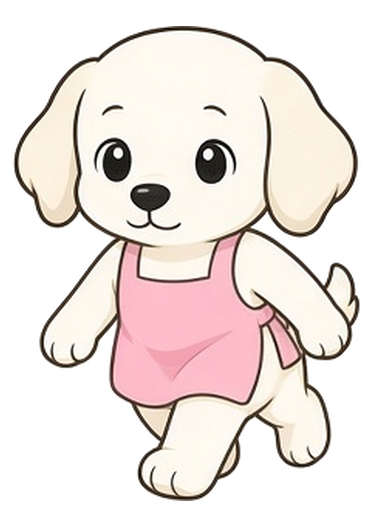
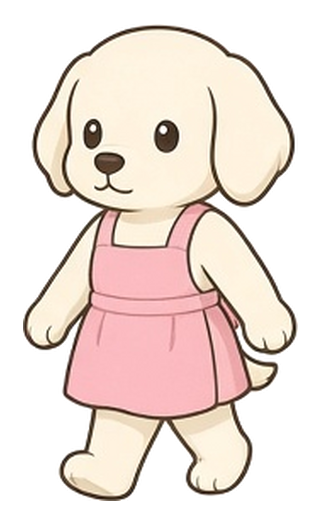
fix: redraw white puppy walk frames with two arms and two legs

diff --git a/src/canvas/walkPixels.test.ts b/src/canvas/walkPixels.test.ts
@@ -5,7 +5,7 @@ import { WALK_ACTORS } from './plaza'
 
 /**
  * Which way the unmirrored sheet faces, read from the pixels.
- * Near-straight frames (white-puppy-back-2) stay neutral.
+ * Near-straight frames (white-puppy-front-2) stay neutral.
  */
 type PixelFacing = 'left' | 'right' | 'neutral'
 
@@ -180,8 +180,8 @@ describe('walk sheet pixels face the authored way', () => {
     const seen = (file: string, side: 'front' | 'back') => pixelFacing(readPng(`public/assets/art25/walk/${file}.png`), side)
     expect(seen('white-puppy-front-1', 'front')).toBe('left')
     expect(seen('white-puppy-front-3', 'front')).toBe('left')
-    expect(seen('white-puppy-back-1', 'back')).toBe('left')
-    expect(seen('white-puppy-back-3', 'back')).toBe('left')
+    expect(seen('white-puppy-back-1', 'back')).toBe('right')
+    expect(seen('white-puppy-back-3', 'back')).toBe('right')
     expect(seen('brown-puppy-back-1', 'back')).toBe('right')
     expect(seen('brown-puppy-back-3', 'back')).toBe('right')
     expect(seen('hamster-back-1', 'back')).toBe('right')

diff --git a/src/canvas/plaza.ts b/src/canvas/plaza.ts
@@ -514,7 +514,7 @@ export const WALK_ACTORS: Record<string, { file: string; width: number; height: 
   rabbit: { file: 'rabbit', width: 284, height: 512, foot: 500, frontFacesRight: false, backFacesRight: true },
   hamster: { file: 'hamster', width: 404, height: 512, foot: 500, frontFacesRight: false, backFacesRight: true },
   sparrow: { file: 'duck', width: 396, height: 512, foot: 500, frontFacesRight: false, backFacesRight: false },
-  'white-puppy': { file: 'white-puppy', width: 374, height: 512, foot: 500, frontFacesRight: false, backFacesRight: false },
+  'white-puppy': { file: 'white-puppy', width: 312, height: 512, foot: 500, frontFacesRight: false, backFacesRight: true },
   'brown-puppy': { file: 'brown-puppy', width: 370, height: 512, foot: 500, frontFacesRight: true, backFacesRight: true },
   hedgehog: { file: 'hedgehog', width: 370, height: 512, foot: 500, frontFacesRight: true, backFacesRight: true },
   otter: { file: 'otter', width: 414, height: 512, foot: 500, frontFacesRight: false, backFacesRight: true },

diff --git a/src/canvas/walk.test.ts b/src/canvas/walk.test.ts
@@ -197,7 +197,7 @@ describe('walk frames', () => {
       rabbit: { frontFacesRight: false, backFacesRight: true },
       hamster: { frontFacesRight: false, backFacesRight: true },
       sparrow: { frontFacesRight: false, backFacesRight: false },
-      'white-puppy': { frontFacesRight: false, backFacesRight: false },
+      'white-puppy': { frontFacesRight: false, backFacesRight: true },
       'brown-puppy': { frontFacesRight: true, backFacesRight: true },
       hedgehog: { frontFacesRight: true, backFacesRight: true },
       otter: { frontFacesRight: false, backFacesRight: true },

diff --git a/src/canvas/plaza.test.ts b/src/canvas/plaza.test.ts
@@ -431,7 +431,7 @@ describe('walking poses', () => {
     const white = scene.find((sprite) => sprite.id === 'staff-dog-white')
     const brown = scene.find((sprite) => sprite.id === 'staff-dog-brown')
     expect(white?.src).toMatch(/white-puppy-back-/)
-    expect(white?.mirror).toBe(true)
+    expect(white?.mirror).toBe(false)
     expect(brown?.src).toMatch(/brown-puppy-back-/)
     expect(walkFacing(8, 1)).toEqual({ facing: 'front', mirror: false })
   })
